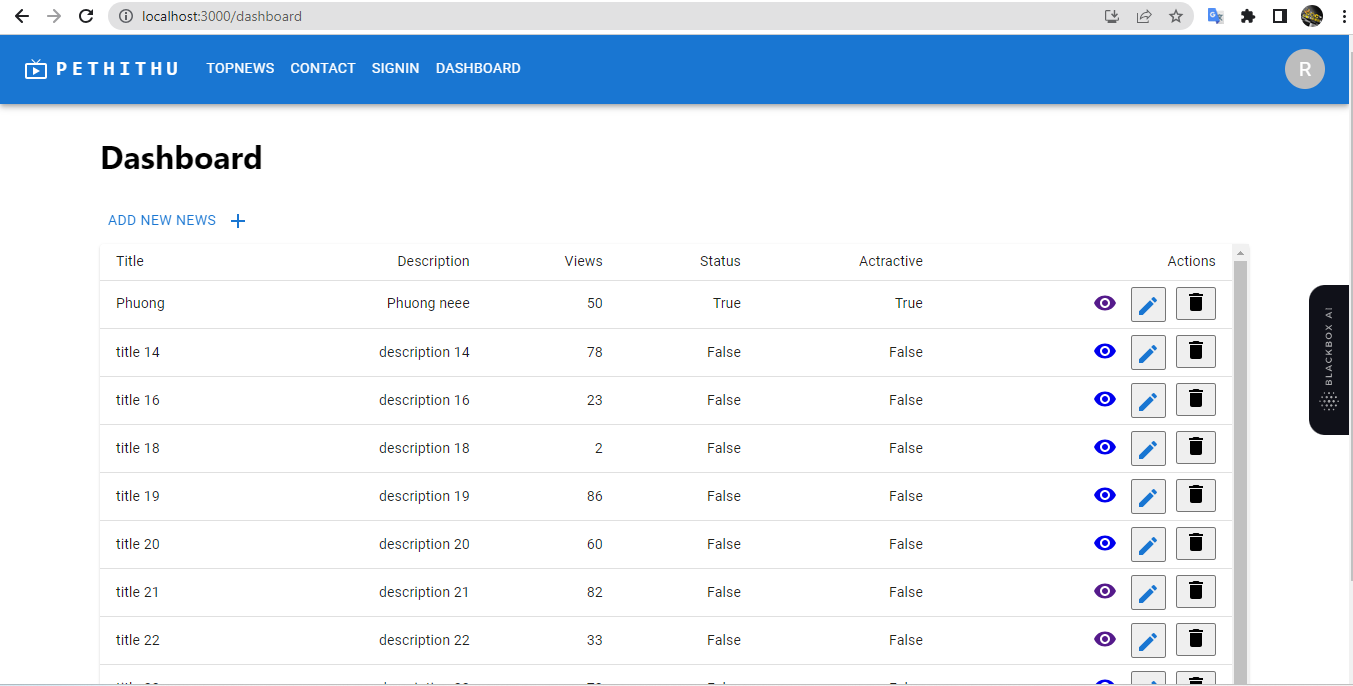
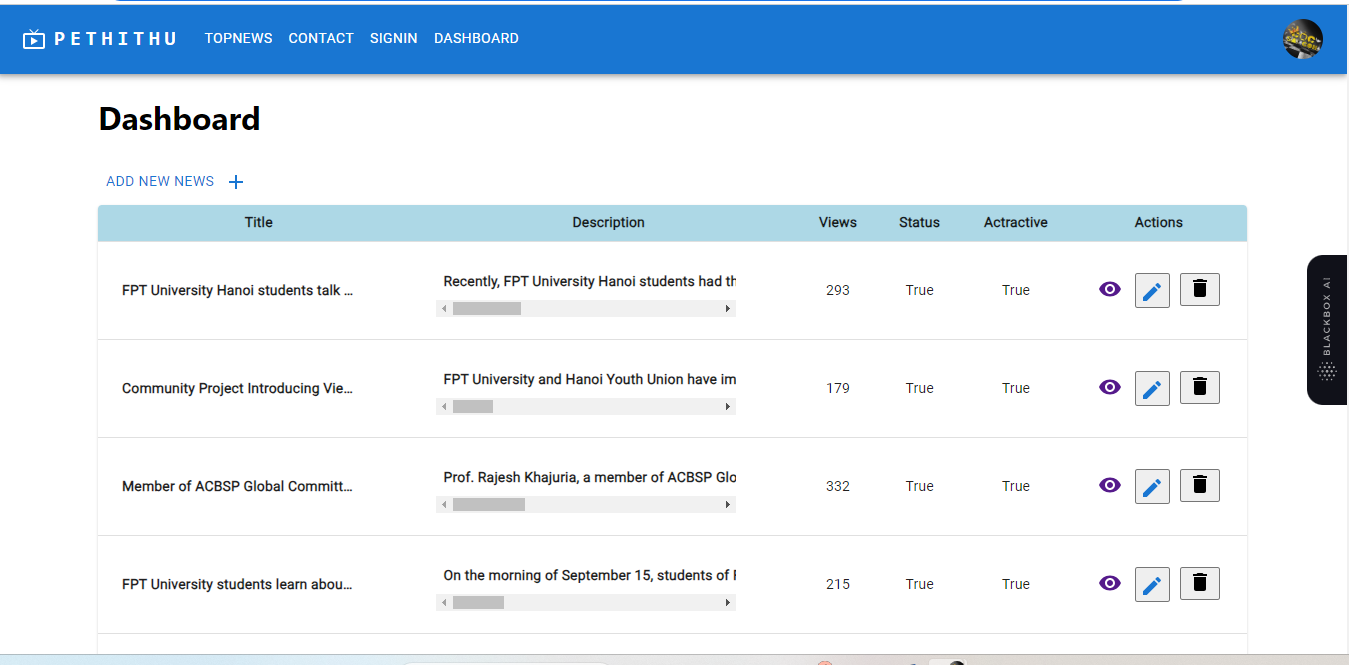
update ScreenShot 2

diff --git a/README.md b/README.md
@@ -18,9 +18,28 @@ Open [http://localhost:3000](http://localhost:3000) to view it in your browser.
 
 ### Screen-shots
 
-![Add-new-News](https://github.com/phuong1304/PE_REACTJS_SP2023/blob/main/ScreenShot/Add-new-News.png)
-![Dashboard](https://github.com/phuong1304/PE_REACTJS_SP2023/blob/main/ScreenShot/Dashboard.png)
+# This is Home page in mockapi.io:
+
 ![Home](https://github.com/phuong1304/PE_REACTJS_SP2023/blob/main/ScreenShot/Home.png)
+
+# Home page add data.json:
+
+![Home](https://github.com/phuong1304/PE_REACTJS_SP2023/blob/main/ScreenShot/Home-Update1.png)
+
+# Top Voucher page:
+
+![TopVoucher](https://github.com/phuong1304/PE_REACTJS_SP2023/blob/main/ScreenShot/TopVoucher.png)
+
+# Sign in to use Dashboard page (with Google):
+
 ![SignIn](https://github.com/phuong1304/PE_REACTJS_SP2023/blob/main/ScreenShot/SignIn.png)
+
+# Firebase is loading:
+
+![Firebase](https://github.com/phuong1304/PE_REACTJS_SP2023/blob/main/ScreenShot/Firebase.png)
+
+# Dashboard just show When SignIn unlock
+
+![Dashboard](https://github.com/phuong1304/PE_REACTJS_SP2023/blob/main/ScreenShot/Dashboard.png)
 
 #### Copyright &#169; 2023 bipu
